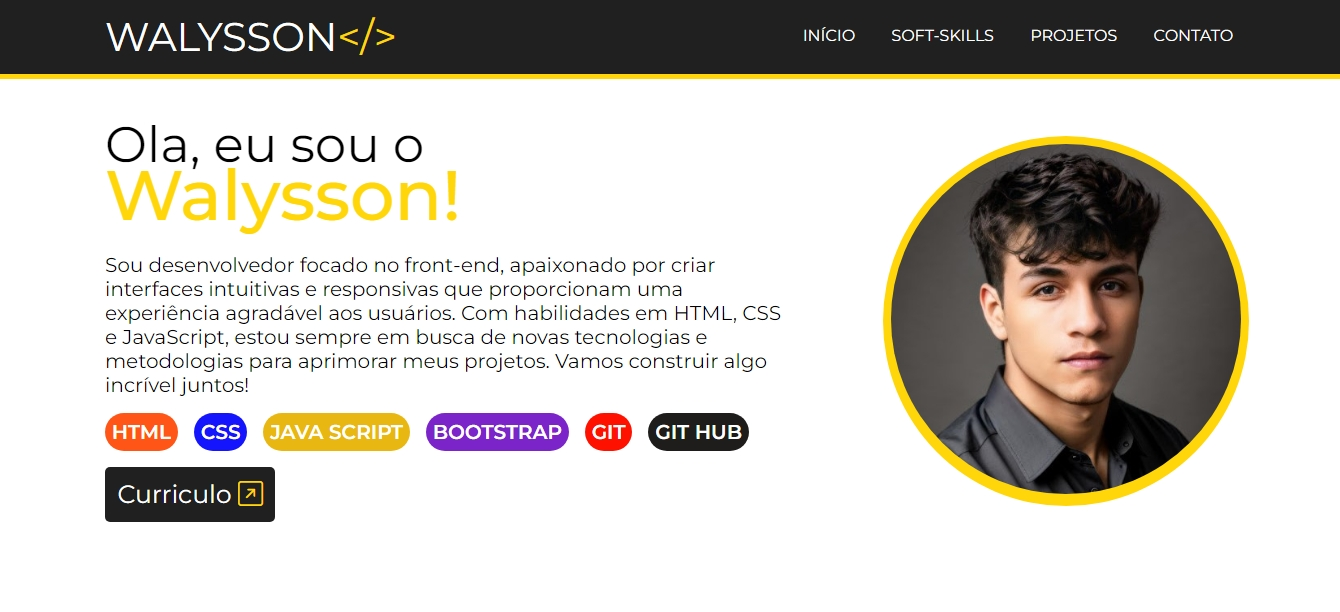
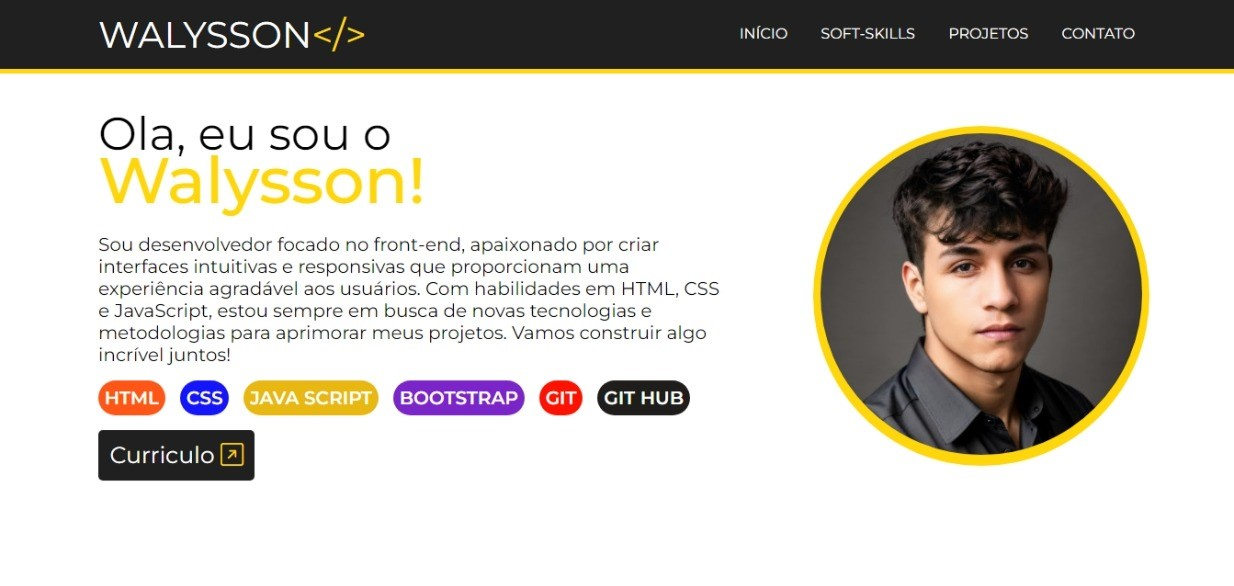
update border radius

diff --git a/style.css b/style.css
@@ -51,7 +51,7 @@ html {
 
 .tags p {
     color: white;
-    border-radius: 55px;
+    border-radius: 1em;
     padding: 1%;
     font-weight: 600;
 }
@@ -498,7 +498,7 @@ textarea {
     padding: .5em;
     border: none;
     background-color: #585858;
-    border-radius: 5px;
+    border-radius: 1em;
     box-shadow: rgba(0, 0, 0, 0.35) 0px 5px 15px;
     color: white;
     font-size: 15px;
@@ -514,12 +514,13 @@ button:focus {
 
 #contato .container button {
     height: 3em;
-    border-radius: 5px;
+    border-radius: 1em;
     background-color: #FFD60A;
     border: none;
     cursor: pointer;
     height: 2em;
     font-size: 18px;
+    font-weight: 600;
     transition: .2s;
     position: relative;
 }
@@ -820,13 +821,13 @@ footer {
         flex-direction: column;
         background-color: #e0e0e0;
         gap: 0;
-        border-radius: 5px;
+        border-radius: 1em;
     }
 
     #projetos .container article img {
         width: 100%;
         height: 100%;
-        border-radius: 5px 5px 0 0;
+        border-radius: 1em 1em 0 0;
     }
 
     #projetos .container article:nth-child(2) {
